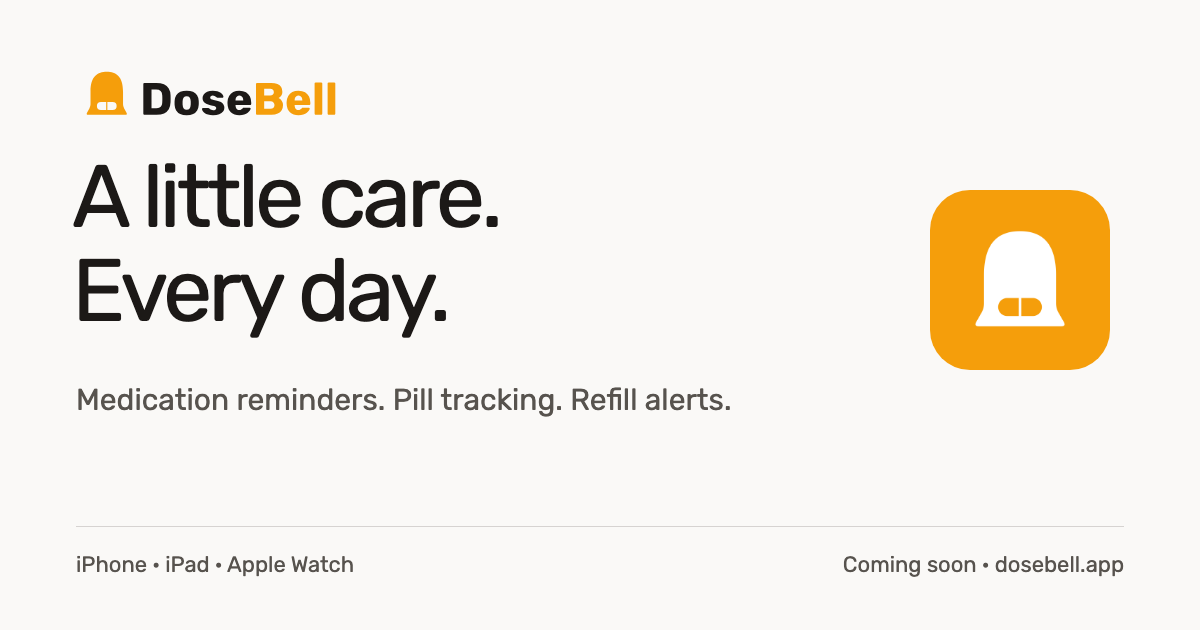
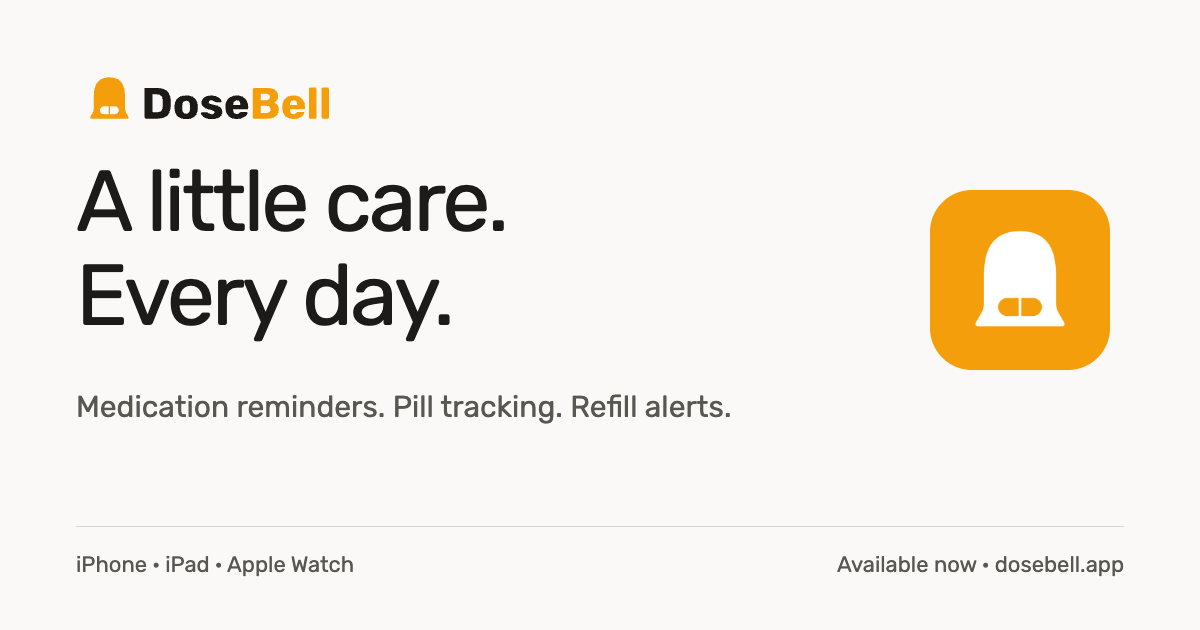
Launch website with App Store download links

diff --git a/index.html b/index.html
@@ -4,11 +4,12 @@
     <meta charset="utf-8" />
     <meta name="viewport" content="width=device-width,initial-scale=1" />
     <title>DoseBell — Medication &amp; Pill Reminders for iPhone</title>
-    <meta name="description" content="Coming soon: medication reminders, pill tracking and refill alerts for iPhone, iPad and Apple Watch. Free essentials. One-time Pro upgrade." />
+    <meta name="description" content="Medication reminders, pill tracking and refill alerts for iPhone, iPad and Apple Watch. Free essentials. One-time Pro upgrade." />
     <link rel="canonical" href="https://dosebell.app/" />
+    <meta name="apple-itunes-app" content="app-id=6817605318" />
     <meta name="theme-color" content="#faf9f7" />
     <meta property="og:title" content="DoseBell — Medication &amp; Pill Reminders for iPhone" />
-    <meta property="og:description" content="Coming soon: medication reminders, pill tracking and refill alerts for iPhone, iPad and Apple Watch. Free essentials. One-time Pro upgrade." />
+    <meta property="og:description" content="Medication reminders, pill tracking and refill alerts for iPhone, iPad and Apple Watch. Free essentials. One-time Pro upgrade." />
     <meta property="og:type" content="website" />
     <meta property="og:url" content="https://dosebell.app/" />
     <meta
@@ -49,9 +50,10 @@
             "alternateName": "DoseBell",
             "operatingSystem": "iOS 16.1+, iPadOS 16.1+, watchOS 9.1+",
             "applicationCategory": "HealthApplication",
-            "description": "Coming soon: medication reminders, pill tracking and refill alerts for iPhone, iPad and Apple Watch. Free essentials. One-time Pro upgrade.",
+            "description": "Medication reminders, pill tracking and refill alerts for iPhone, iPad and Apple Watch. Free essentials. One-time Pro upgrade.",
             "url": "https://dosebell.app/",
             "image": "https://dosebell.app/images/appstore-icon-1024.png",
+            "downloadUrl": "https://apps.apple.com/us/app/dosebell-meds-reminders/id6817605318",
             "featureList": [
               "Medication reminders",
               "Pill and dose tracking",
@@ -72,7 +74,7 @@
     <meta property="og:image:height" content="630" />
     <meta property="og:image:alt" content="DoseBell — medication reminders and dose tracking" />
     <meta name="twitter:title" content="DoseBell — Medication &amp; Pill Reminders for iPhone" />
-    <meta name="twitter:description" content="Coming soon: medication reminders, pill tracking and refill alerts for iPhone, iPad and Apple Watch. Free essentials. One-time Pro upgrade." />
+    <meta name="twitter:description" content="Medication reminders, pill tracking and refill alerts for iPhone, iPad and Apple Watch. Free essentials. One-time Pro upgrade." />
     <meta name="twitter:image" content="https://dosebell.app/images/og-image.png" />
     <meta name="twitter:image:alt" content="DoseBell — medication reminders and dose tracking" />
   </head>
@@ -91,8 +93,8 @@
         <a href="#features">The everyday essentials</a
         ><a href="#pricing">Free & Pro</a><a href="/support/">Support</a>
       </nav>
-      <a class="button small outline" href="#availability"
-        >Keep me in the loop <span aria-hidden="true">↗</span></a
+      <a class="button small outline" href="https://apps.apple.com/us/app/dosebell-meds-reminders/id6817605318"
+        >Download DoseBell <span aria-hidden="true">↗</span></a
       >
     </header>
     <main id="main">
@@ -112,8 +114,8 @@
             Medication reminders, pill tracking, and refill alerts.
             One clear place for your daily routine.
           </p>
-          <a class="button primary" href="#availability"
-            >Meet your new routine <span aria-hidden="true">↗</span></a
+          <a class="button primary" href="https://apps.apple.com/us/app/dosebell-meds-reminders/id6817605318"
+            >Download on the App Store <span aria-hidden="true">↗</span></a
           >
           <div class="hero-notes">
             <span>For iPhone, iPad & Apple Watch</span
@@ -331,8 +333,8 @@
               <li>Widgets, Live Activities, Apple Watch, and Siri</li>
               <li>Private iCloud sync, with local offline use</li>
             </ul>
-            <a class="button outline" href="#availability"
-              >Find out about availability <span aria-hidden="true">↗</span></a
+            <a class="button outline" href="https://apps.apple.com/us/app/dosebell-meds-reminders/id6817605318"
+              >Download for free <span aria-hidden="true">↗</span></a
             >
           </article>
           <article class="price-card pro-card">
@@ -352,8 +354,8 @@
               Australian launch price. Prices vary by region; the local price is shown in the app before purchase. Restore
               purchases with your Apple Account.
             </p>
-            <a class="button dark" href="#availability"
-              >Keep me in the loop <span aria-hidden="true">↗</span></a
+            <a class="button dark" href="https://apps.apple.com/us/app/dosebell-meds-reminders/id6817605318"
+              >Download DoseBell <span aria-hidden="true">↗</span></a
             >
           </article>
         </div>
@@ -368,8 +370,8 @@
           <details>
             <summary>Is DoseBell a free pill reminder app?</summary>
             <p>
-              At launch, medication reminders, all schedule types, dose history,
-              refill tracking, widgets, and Apple Watch support will be free.
+              Medication reminders, all schedule types, dose history,
+              refill tracking, widgets, and Apple Watch support are free.
               DoseBell Pro adds profiles, caregiver sharing, PDF reports, label
               scanning, and personalisation with a one-time purchase.
             </p>
@@ -389,8 +391,7 @@
               Standard reminders respect Silent mode. Time-sensitive
               notifications can appear through some Focus settings when you
               allow them. Critical Alerts require a separate Apple entitlement
-              and your permission; they are not promised at
-              launch.
+              and your permission; they are not available in this release.
             </p>
           </details>
           <details>
@@ -416,15 +417,14 @@
         <p class="eyebrow">Your next small step.</p>
         <h2>Make a little room<br />for peace of mind.</h2>
         <p>
-          DoseBell is coming soon.<br />Contact us for release
-          and testing information.
+          DoseBell is now on the App Store.<br />Start your routine with the free essentials.
         </p>
         <a
           class="button primary"
-          href="mailto:support@dosebell.app?subject=DoseBell%20release%20updates"
-          >Ask about availability <span aria-hidden="true">↗</span></a
+          href="https://apps.apple.com/us/app/dosebell-meds-reminders/id6817605318"
+          >Download on the App Store <span aria-hidden="true">↗</span></a
         ><small
-          >For iPhone, iPad and Apple Watch. No mailing list signup required.</small
+          >For iPhone, iPad and Apple Watch. Free to download. Optional one-time Pro upgrade.</small
         >
       </section>
     </main>

diff --git a/support/index.html b/support/index.html
@@ -38,7 +38,7 @@
             "name": "Why don't I hear the alarm?",
             "acceptedAnswer": {
                 "@type": "Answer",
-                "text": "Check notification permissions, volume, Silent mode, and Focus settings. Standard reminders respect Silent mode. Time-sensitive notifications can appear through permitted Focus settings. Critical Alerts require a separate Apple entitlement and your permission; they are not promised at launch. Open DoseBell regularly to refresh scheduled reminders."
+                "text": "Check notification permissions, volume, Silent mode, and Focus settings. Standard reminders respect Silent mode. Time-sensitive notifications can appear through permitted Focus settings. Critical Alerts require a separate Apple entitlement and your permission; they are not available in this release. Open DoseBell regularly to refresh scheduled reminders."
             }
         },
         {
@@ -354,7 +354,7 @@
 
             <div class="faq-item">
                 <div class="faq-question">Why don't I hear the alarm?</div>
-                <div class="faq-answer">Check notification permissions, volume, Silent mode, and Focus settings. Standard reminders respect Silent mode. Time-sensitive notifications can appear through permitted Focus settings. Critical Alerts require a separate Apple entitlement and your permission; they are not promised at launch. Open DoseBell regularly to refresh scheduled reminders.</div>
+                <div class="faq-answer">Check notification permissions, volume, Silent mode, and Focus settings. Standard reminders respect Silent mode. Time-sensitive notifications can appear through permitted Focus settings. Critical Alerts require a separate Apple entitlement and your permission; they are not available in this release. Open DoseBell regularly to refresh scheduled reminders.</div>
             </div>
 
             <div class="faq-item">

diff --git a/README.md b/README.md
@@ -4,6 +4,6 @@ Static HTML, CSS, and JavaScript. No build step or analytics.
 
 Preview: `python3 -m http.server 8000` from this directory.
 
-The homepage links to the support mailbox for release information until a verified App Store or TestFlight URL is supplied. Replace availability calls to action and add the real App Store smart banner only when that URL exists. No fabricated reviews or ratings are included.
+The homepage links directly to DoseBell on the App Store and includes its Smart App Banner. No fabricated reviews or ratings are included.
 
 The interactive preview uses illustrative medication names and does not store personal information. Support and privacy copy describe the implemented permissions and sharing behavior.
